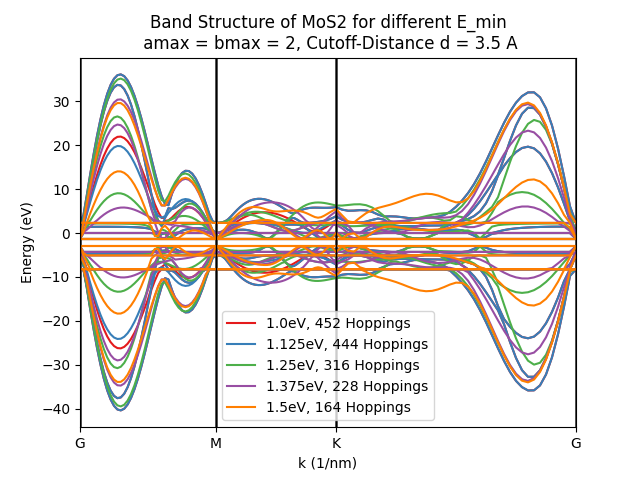
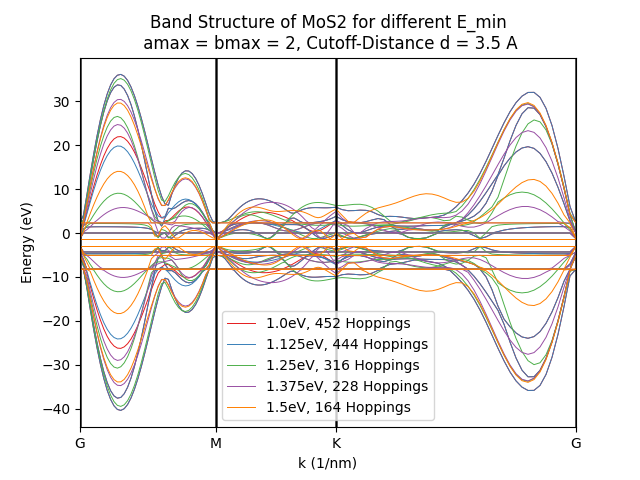
Mos2exp4
Function getbandgap for calculating bandgaps implemented.
Plotted Bandgaps vs Emin.
Plotted Bandstructures of the different interesting intervals in mos2exp_3.

Changed region(s): [[0.125, 0.1562, 0.9062, 0.875], [0.6562, 0.375, 0.6875, 0.4062]]

diff --git a/mos2exp_4.py b/mos2exp_4.py
@@ -1,0 +1,84 @@
+
+import numpy as np
+import tbplas as tb
+import matplotlib.pyplot as plt
+from numpy.linalg import norm
+from math import exp, sqrt
+
+from mos2expclass import mos2exp
+
+
+def getbandgap(tbexp):
+
+    k_points = np.array([
+        [0.0, 0.0, 0.0],    # Gamma
+        [1./2, 0.0, 0.0],   # M
+        [2./3, 1./3, 0.0],  # K
+        [0.0, 0.0, 0.0],    # Gamma
+    ])
+    k_label = ["G", "M", "K", "G"]
+    k_path, k_idx = tb.gen_kpath(k_points, [40, 40, 40])
+    #print(len(bands))
+    k_len, bands = tbexp.cell.calc_bands(k_path)
+
+    energies = []
+    num_k = bands.shape[0]
+    num_bands = bands.shape[1]
+    
+    for i in range(num_bands):
+        for j in range(num_k):
+            energies.append((bands[j, i]))
+    energies = np.array(energies)
+    energies = np.sort(energies)
+    e_old = energies[0]
+    e_new = energies[1]
+    deltae = 0
+    maxdelta=0
+    for i in range(1,len(energies)):
+        e_new = energies[i]
+        deltae = e_new - e_old
+        if(deltae > maxdelta):
+            maxdelta = deltae
+        e_old = e_new
+    return maxdelta
+
+############
+##MAIN:
+############
+
+
+amax= 2
+bmax = 2
+cutoff_distance = 3.5
+"""minhop = 1.2
+
+#Bandstructures for different E_min
+lowminhop = 1
+highminhop = 1.5 #There must be at least 1 Hopping for calcbands to work
+minhops = 1.2
+tbexp = mos2exp(minhop)
+tbexp.addhoppings(cutoff_distance,amax,bmax,minhop)
+
+print("Bandgap = " + str(getbandgap(tbexp)) + " eV")
+
+"""
+#Plotting bandwidth vs minhop
+lowminhop = 0
+highminhop = 2.4
+minhops = np.linspace(lowminhop, highminhop,50)
+bandgaps = []
+for minhop in minhops:
+    tbexp = mos2exp(cutoff_distance)
+    tbexp.addhoppings(cutoff_distance,amax,bmax,minhop)
+    #print(tbexp.hoppings)
+    bandgaps.append(getbandgap(tbexp))
+
+plt.plot(minhops, bandgaps,label="Calculated Bandgaps")
+plt.axhline(1.77, color='r', linewidth=0.5,label="1.77 eV (Literature)")
+plt.xlabel("Energy E_min in eV")
+plt.ylabel("Bandgap in eV")
+plt.legend()
+plt.title("Bandgaps of MoS2 with varying minimal hopping energy. \n amax = bmax = %s, cutoff-distance d = %s A" % (amax, cutoff_distance))
+plt.savefig("mos2exp4_bandgaps.png")
+#plt.show()
+plt.clf()

diff --git a/mos2exp_3.py b/mos2exp_3.py
@@ -8,7 +8,7 @@ from math import exp, sqrt
 from mos2expclass import mos2exp
 
 
-def safebandstructure(expvector):
+def safebandstructure(expvector,lowminhop,highminhop):
     n= len(expvector)
     cellvector = [exp.cell for exp in expvector]
 
@@ -34,7 +34,7 @@ def safebandstructure(expvector):
     for i in range(n):
         color = colors[i]
         num_bands = bands[i].shape[1]
-        width = 1.5
+        width = 0.7
         for j in range(num_bands):
             if(j==0):
                 label = str(expvector[i].name) + "eV, " + str(expvector[i].hoppings) +" Hoppings"
@@ -51,7 +51,8 @@ def safebandstructure(expvector):
     #plt.tight_layout()
     plt.legend()
     plt.title("Band Structure of MoS2 for different E_min\n amax = bmax = %s, Cutoff-Distance d = %s A" % (amax, cutoff_distance))
-    plt.savefig("mos2exp_3.png")
+    pngname = "mos2exp_3_l_low" + str(lowminhop) + "_high" + str(highminhop) + ".png"
+    plt.savefig(pngname)
     #plt.show()
     plt.close()
 
@@ -67,7 +68,7 @@ amax= 2
 bmax = 2
 cutoff_distance = 3.5
 
-#Plotting cutoff_distance vs n_hoppings
+#Plotting n_hoppings vs minhop
 lowminhop = 0
 highminhop = 2.7
 minhops = np.linspace(lowminhop, highminhop,50)
@@ -89,8 +90,8 @@ plt.clf()
 
 
 #Bandstructures for different E_min
-lowminhop = 1
-highminhop = 1.5 #There must be at least 1 Hopping for calcbands to work
+lowminhop = 0
+highminhop = 0.05 #There must be at least 1 Hopping for calcbands to work
 minhops = np.linspace(lowminhop, highminhop,5)
 expvector = []
 
@@ -100,4 +101,4 @@ for minhop in minhops:
     print(tbexp.hoppings)
     expvector.append(tbexp)
 
-safebandstructure(expvector)
+safebandstructure(expvector,lowminhop,highminhop)
